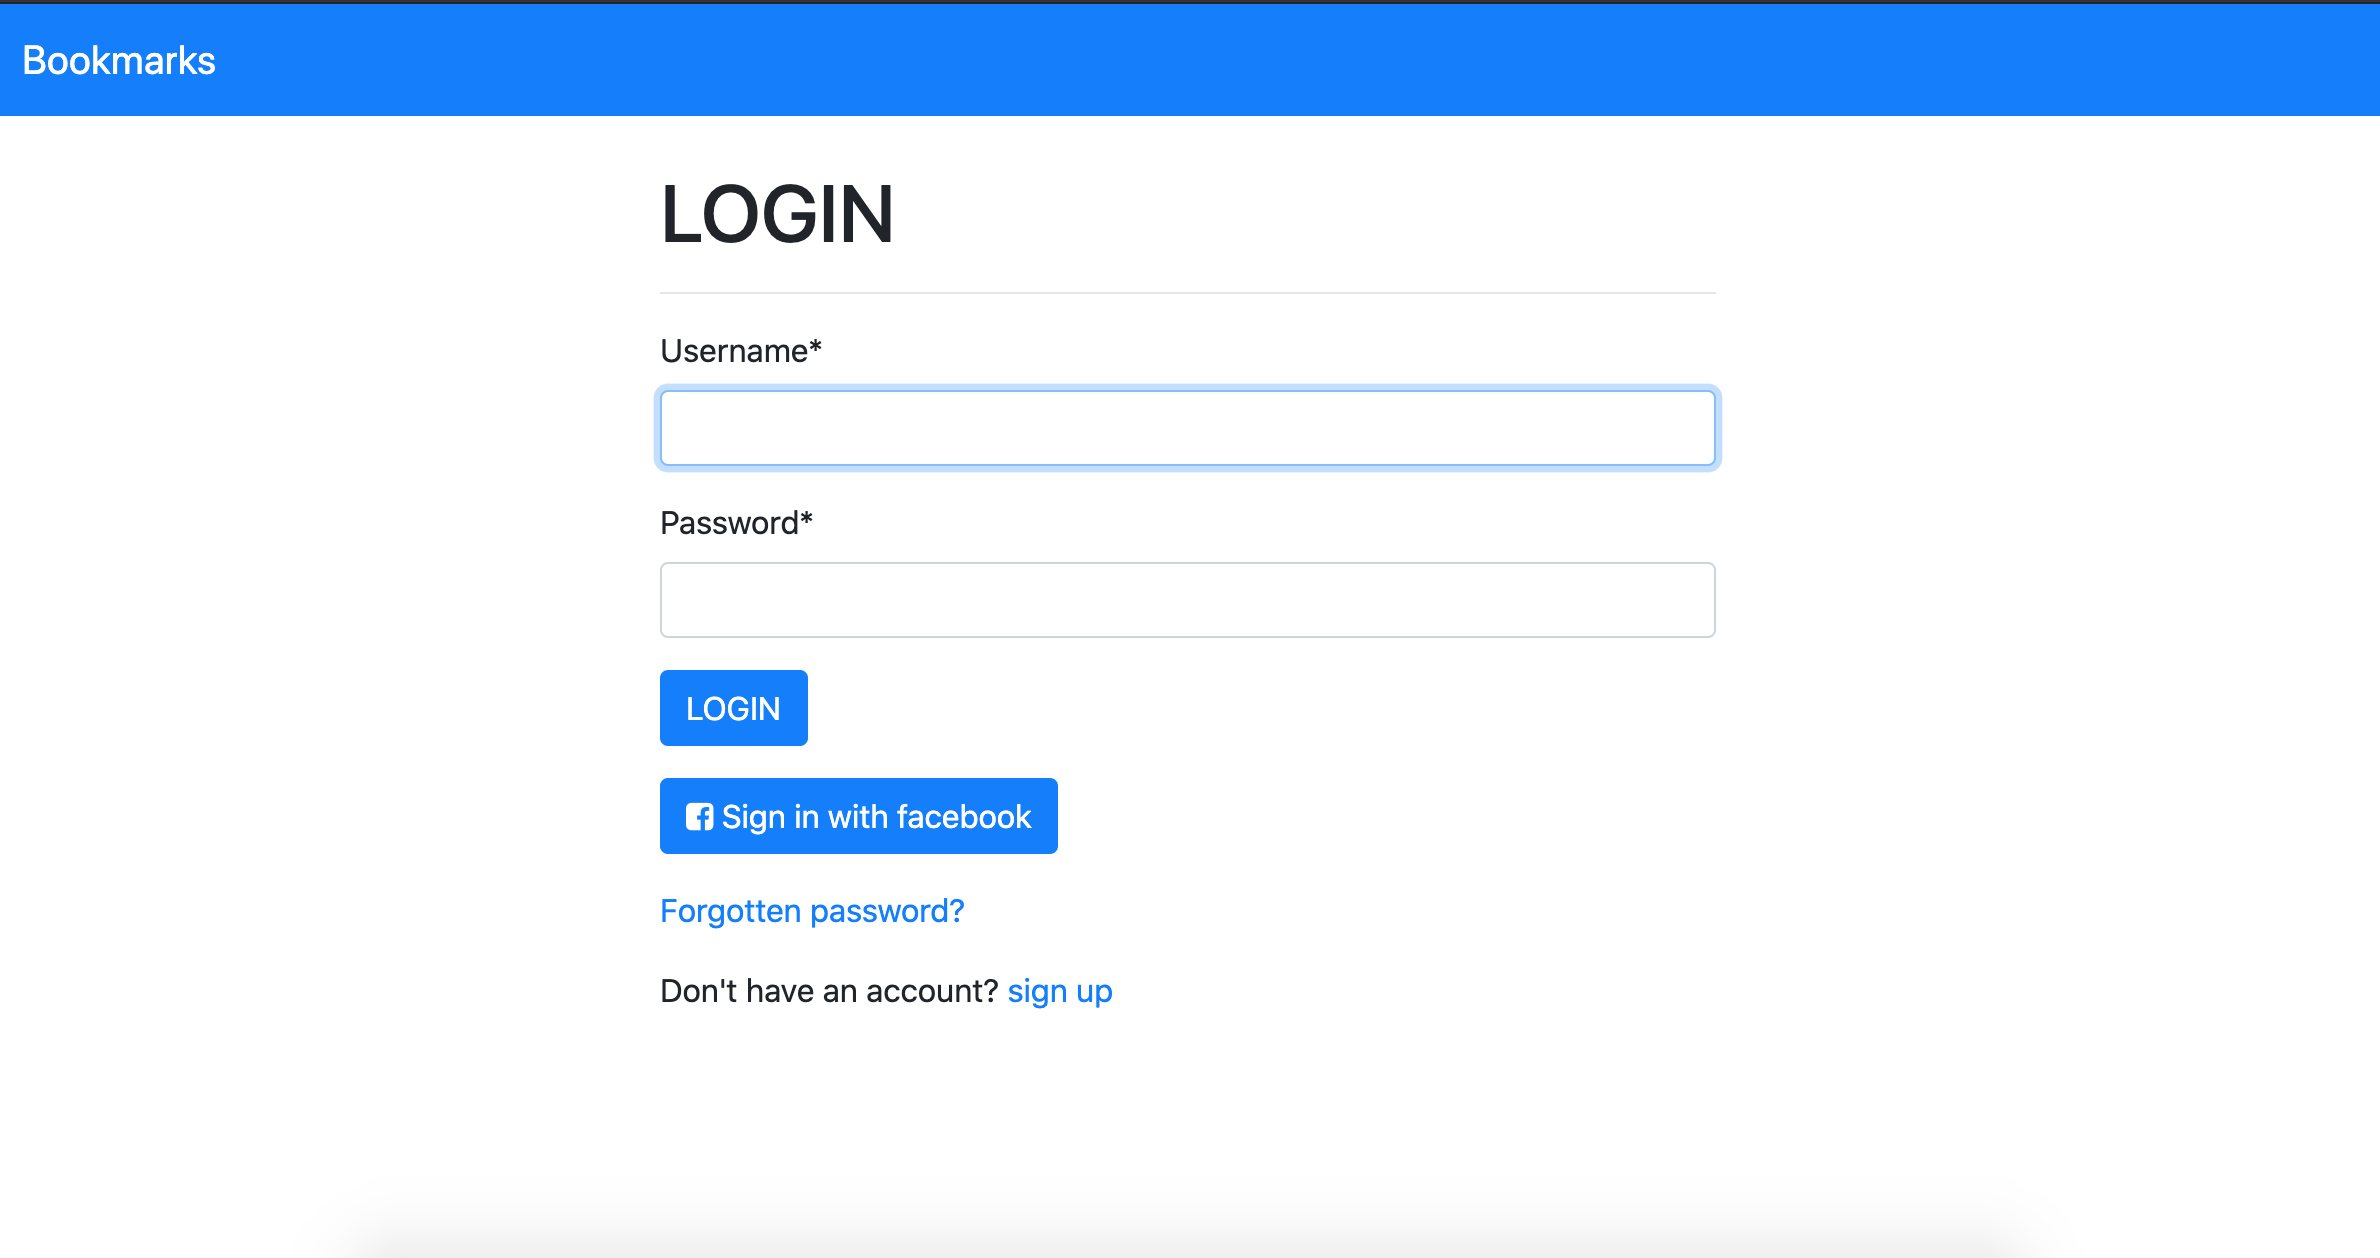
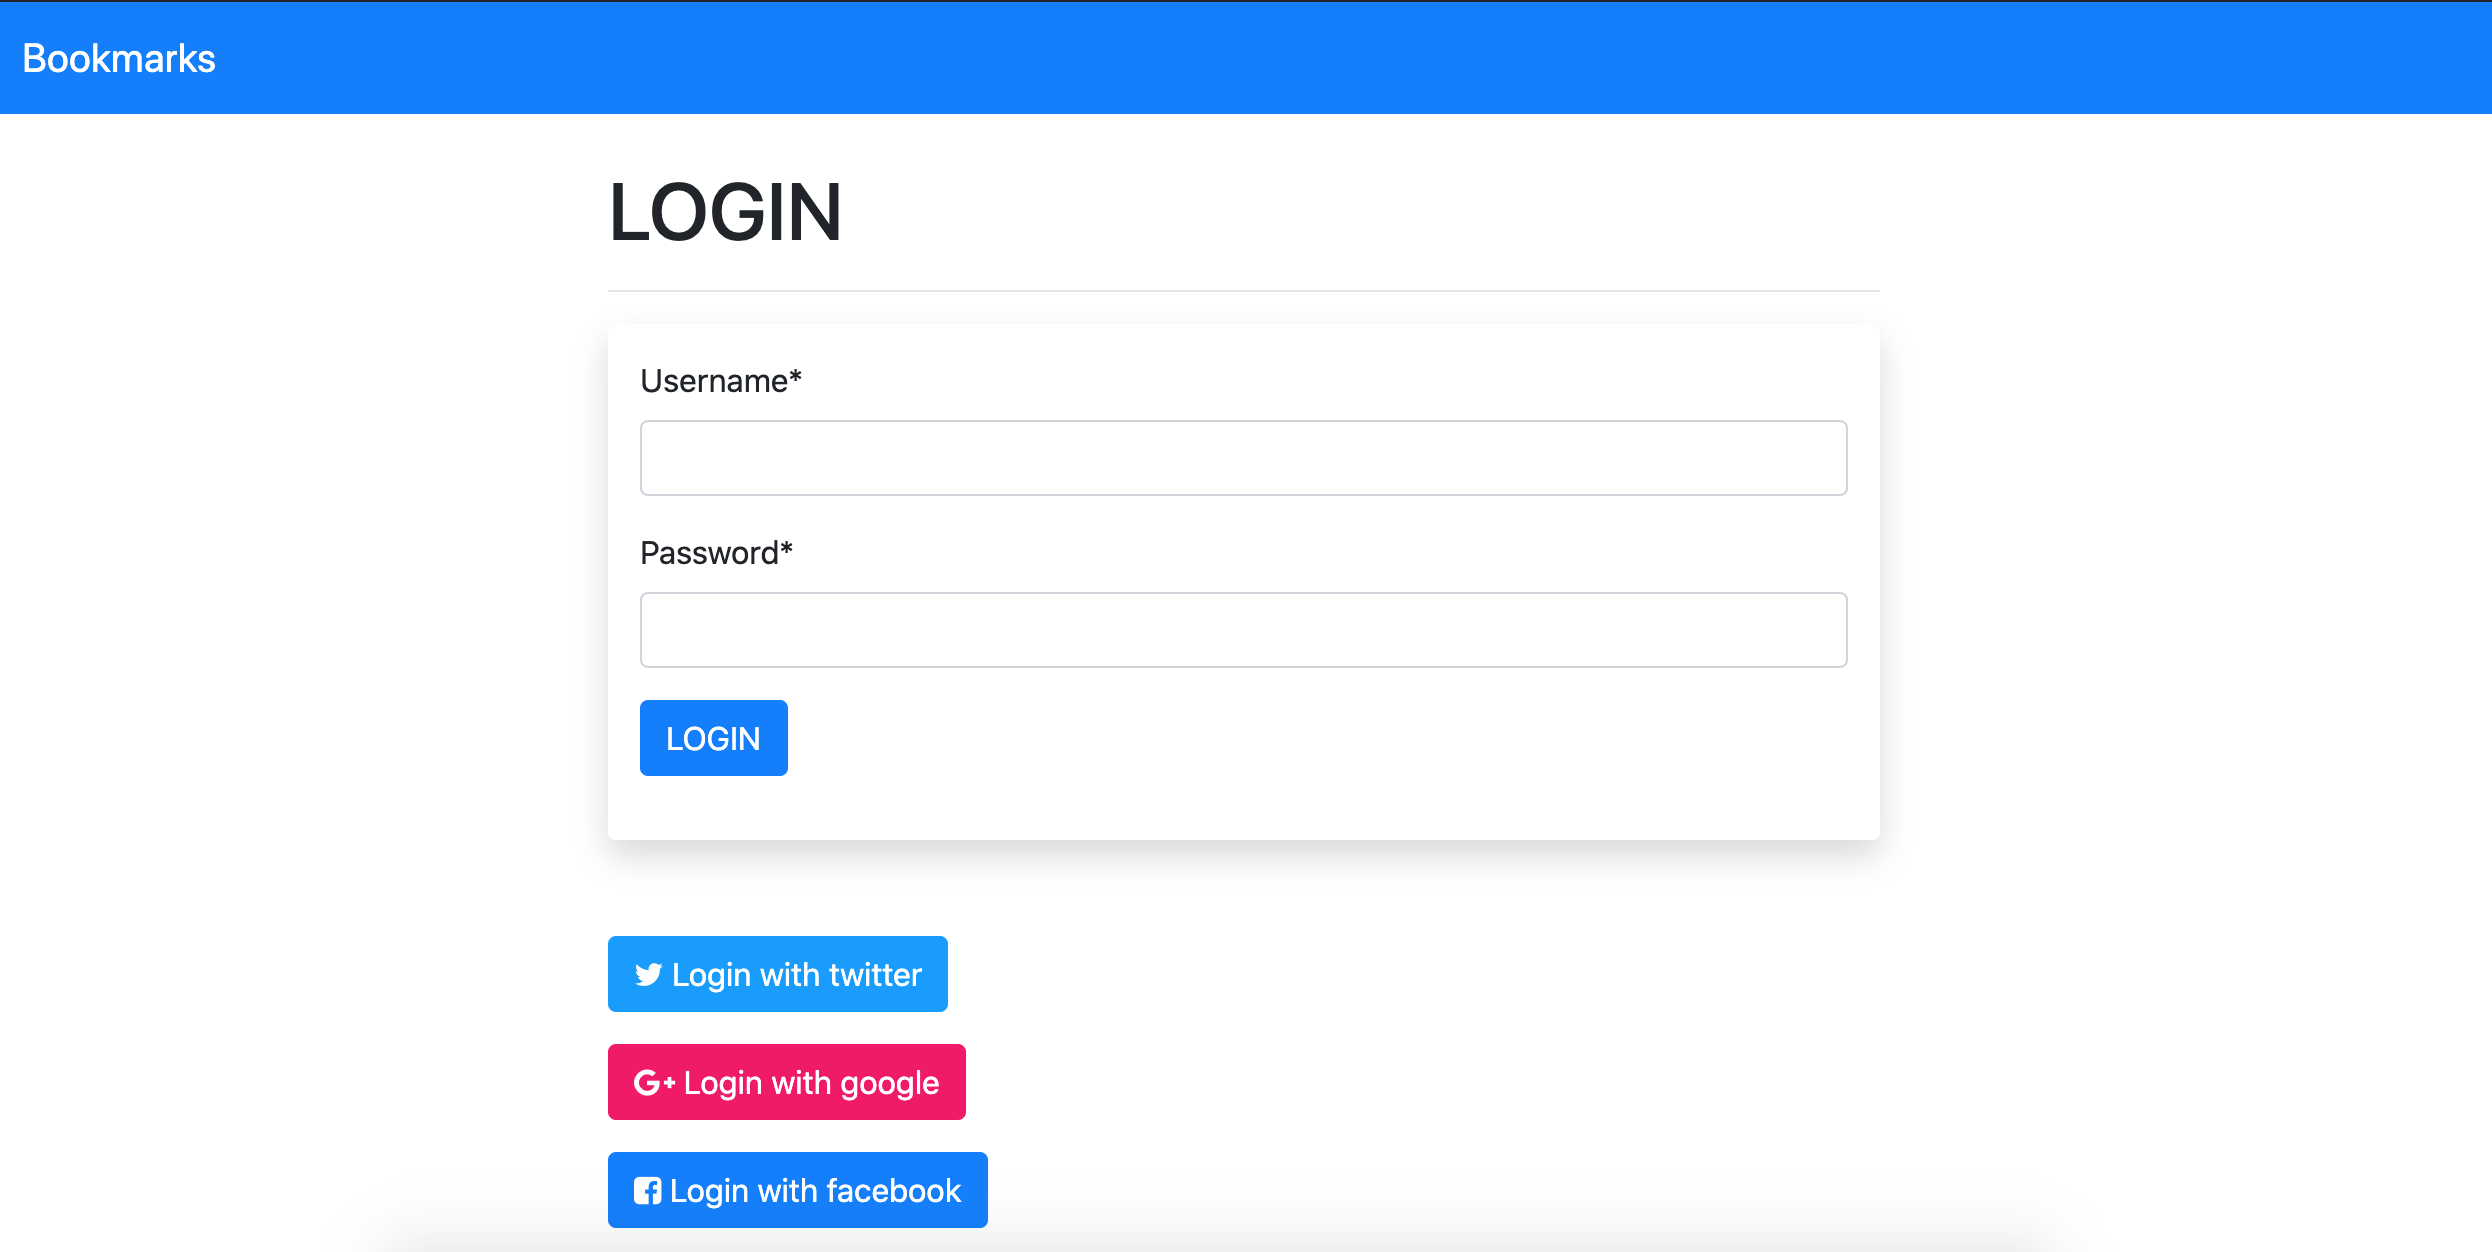
Adds google login authentication

diff --git a/account/templates/registration/login.html b/account/templates/registration/login.html
@@ -33,7 +33,7 @@
         </a>
     </p>
     <p>
-        <a name="" id="" class="btn text-white" href="{% url 'social:begin' 'google' %}" role="button" style="background-color: rgb(241, 15, 102);">
+        <a name="" id="" class="btn text-white" href="{% url 'social:begin' 'google-oauth2' %}" role="button" style="background-color: rgb(241, 15, 102);">
             <i class="fa fa-google-plus" aria-hidden="true"></i> 
             Login with google
         </a>

diff --git a/bookmarks/settings.py b/bookmarks/settings.py
@@ -157,3 +157,6 @@ SOCIAL_AUTH_FACEBOOK_SCOPE = ['email']
 
 SOCIAL_AUTH_TWITTER_KEY = config('SOCIAL_AUTH_TWITTER_KEY') # Twitter App ID
 SOCIAL_AUTH_TWITTER_SECRET = config('SOCIAL_AUTH_TWITTER_SECRET')
+
+SOCIAL_AUTH_GOOGLE_OAUTH2_KEY = config('SOCIAL_AUTH_GOOGLE_OAUTH2_KEY') # Google Consumer Key
+SOCIAL_AUTH_GOOGLE_OAUTH2_SECRET = config('SOCIAL_AUTH_GOOGLE_OAUTH2_SECRET') # Google Consumer Secret
